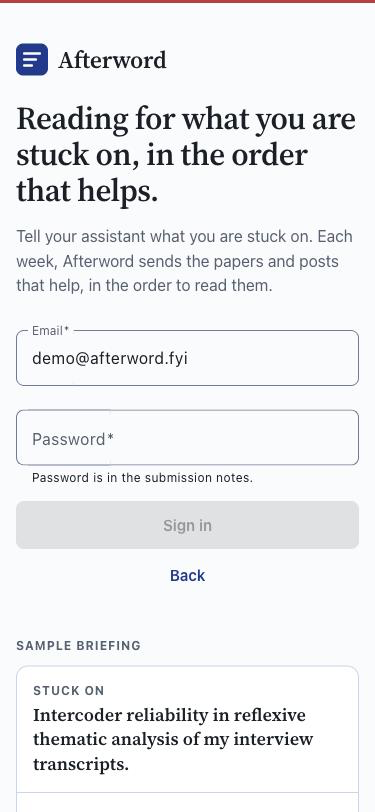
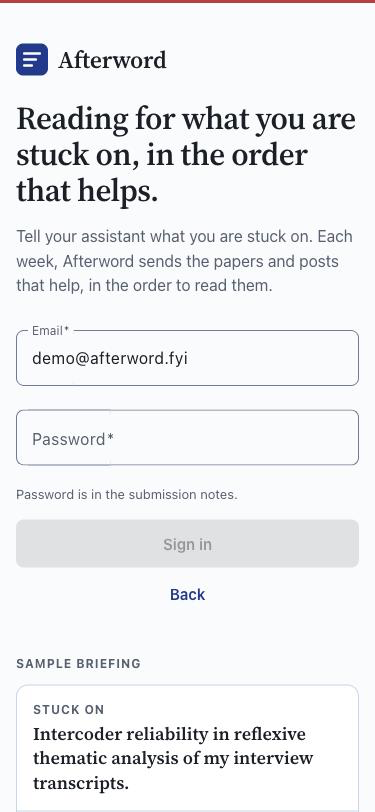
fix(app): review fixes for failed state, saved notice and password hint
Show the backend's own failed message, only claim a kept briefing when one is
shown, hide the raw warning above the failed card, clear the kept briefing on
navigation, tie the saved notice to the shown briefing and saved state, and
keep the password hint visible next to the required error.

Changed region(s): [[0.0293, 0.7697, 0.9387, 1.0], [0.0293, 0.585, 0.968, 0.7389]]

diff --git a/app/src/app/briefings/briefings-page/briefings-page.component.ts b/app/src/app/briefings/briefings-page/briefings-page.component.ts
@@ -27,7 +27,7 @@ import {
   SkeletonListComponent,
   formatShortDate,
 } from '../../shared';
-import { briefingsConfig, briefingsCopy, entryKindIcons, noNotesBackendMessage } from '../briefings.constants';
+import { briefingsConfig, briefingsCopy, entryKindIcons } from '../briefings.constants';
 import { entryDomId, findEntry, formatByline, toErrorMessage, toSortedSections } from '../briefings.helper';
 import { IBriefingLoadResult } from '../briefings.interfaces';
 import { BriefingsService } from '../services/briefings.service';
@@ -128,9 +128,7 @@ export class BriefingsPageComponent implements OnInit {
   }
 
   public get failedMessage(): string {
-    const error = this.briefing?.error ?? '';
-
-    return noNotesBackendMessage.test(error) ? error : briefingsCopy.FAILED_FALLBACK;
+    return this.briefing?.error || (this.shown ? briefingsCopy.FAILED_FALLBACK_KEPT : briefingsCopy.FAILED_FALLBACK);
   }
 
   public get isBuildDisabled(): boolean {
@@ -152,6 +150,11 @@ export class BriefingsPageComponent implements OnInit {
           this.routeId = routeId;
           this.infoMessage = this._briefingsService.takePendingWarning();
           this.savedNoticeItemId = '';
+
+          if (!this.isBuilding) {
+            this._lastReady = null;
+          }
+
           this._showLoading();
         }),
         switchMap((routeId) => this._watchBriefing(routeId)),
@@ -218,7 +221,7 @@ export class BriefingsPageComponent implements OnInit {
       return;
     }
 
-    if (await this._saveItem(briefingId, entry.itemId)) {
+    if ((await this._saveItem(briefingId, entry.itemId)) && this.shown?.id === briefingId) {
       this.savedNoticeItemId = entry.itemId;
     }
   }
@@ -266,6 +269,8 @@ export class BriefingsPageComponent implements OnInit {
 
     if (result.briefing?.status === 'ready') {
       this._lastReady = result.briefing;
+    } else if (!result.briefing) {
+      this._lastReady = null;
     }
 
     this.briefing = result.briefing;
@@ -304,12 +309,12 @@ export class BriefingsPageComponent implements OnInit {
     const wasSaved = savedByItemId.has(itemId);
     const isSaved = wasSaved || (await this._saveItem(briefingId, itemId));
 
-    if (isSaved && !wasSaved) {
-      this.savedNoticeItemId = itemId;
-    }
-
     if (this._isDestroyed || this._route.snapshot.paramMap.get('id') !== briefingId) {
       return;
+    }
+
+    if (isSaved && !wasSaved) {
+      this.savedNoticeItemId = itemId;
     }
 
     setTimeout(() => this._scrollToEntry(itemId));

diff --git a/app/src/app/briefings/briefings.constants.ts b/app/src/app/briefings/briefings.constants.ts
@@ -27,7 +27,8 @@ export const briefingsCopy = {
   INTRO: 'Read each section top to bottom. Save what helps; your assistant can search it later.',
   NOT_FOUND: 'We could not find that briefing. Build a new one from your open notes.',
   BUILDING: 'Your briefing is being built. About a minute or two.',
-  FAILED_FALLBACK: 'We could not reach the paper search in time. Your notes and last briefing are safe. Try again.',
+  FAILED_FALLBACK: 'We could not reach the paper search in time. Your notes are safe. Try again.',
+  FAILED_FALLBACK_KEPT: 'We could not reach the paper search in time. Your notes and last briefing are safe. Try again.',
   NO_ENTRIES: 'This briefing has no entries. None of your open notes turned up anything to read yet.',
   LOAD_ERROR: 'We could not load your briefing. Refresh the page and try again.',
   BUILD_ERROR: 'We could not build your briefing. Please try again.',
@@ -68,5 +69,3 @@ export const entryKindIcons = {
 } as const;
 
 export const backendCodeOnlyMessage = /^[a-z-]+( \[\d+\])?$/;
-
-export const noNotesBackendMessage = /no open notes/i;

diff --git a/app/src/app/briefings/briefings-page/briefings-page.component.html b/app/src/app/briefings/briefings-page/briefings-page.component.html
@@ -29,7 +29,7 @@
   <aw-skeleton-list [count]="2" [label]="copy.BUILDING_LABEL"></aw-skeleton-list>
 }
 
-@if (infoMessage) {
+@if (infoMessage && briefing?.status !== 'failed') {
   <aw-alert-banner class="banner" kind="info" [message]="infoMessage" (dismissed)="infoMessage = ''"></aw-alert-banner>
 }
 
@@ -135,7 +135,7 @@
                           </div>
                         }
                       </button>
-                      @if (savedNoticeItemId === entry.itemId) {
+                      @if (savedItem && savedNoticeItemId === entry.itemId) {
                         <aw-alert-banner
                           class="saved-notice"
                           kind="info"

diff --git a/app/src/app/sign-in/sign-in.component.html b/app/src/app/sign-in/sign-in.component.html
@@ -60,11 +60,11 @@
                 #passwordField="ngModel"
                 [(ngModel)]="demoPassword"
               />
-              <mat-hint>{{ copy.PASSWORD_HINT }}</mat-hint>
               @if (passwordField.hasError('required')) {
                 <mat-error>Enter your password.</mat-error>
               }
             </mat-form-field>
+            <p class="password-hint">{{ copy.PASSWORD_HINT }}</p>
             <button mat-flat-button class="primary-action" type="submit" [disabled]="demoForm.invalid || isSigningIn">
               @if (isSigningIn) {
                 <mat-spinner diameter="20"></mat-spinner>

diff --git a/app/src/app/sign-in/sign-in.component.scss b/app/src/app/sign-in/sign-in.component.scss
@@ -106,6 +106,13 @@
   gap: var(--aw-space-1);
 }
 
+.password-hint {
+  margin: calc(-1 * var(--aw-space-1)) 0 0;
+  font-size: var(--aw-text-sm);
+  line-height: 1.45;
+  color: var(--aw-theme--text-muted);
+}
+
 .demo-form .primary-action {
   margin-top: var(--aw-space-3);
 }
